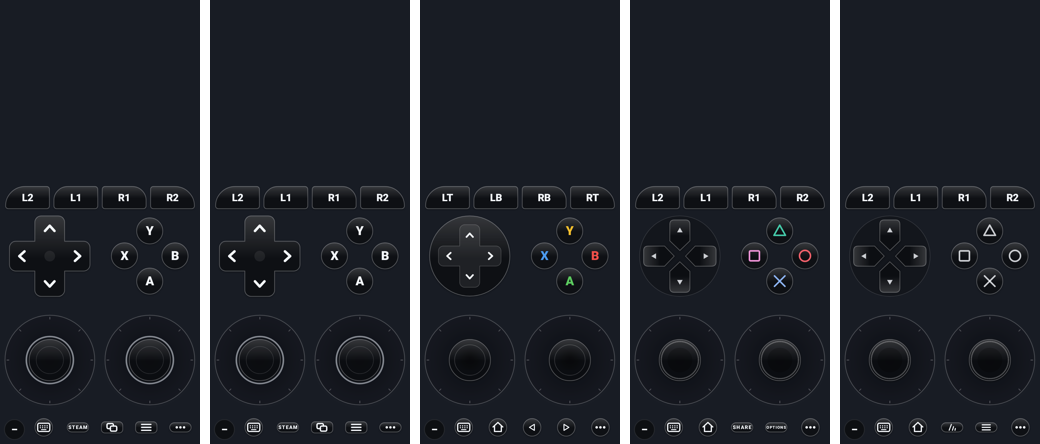
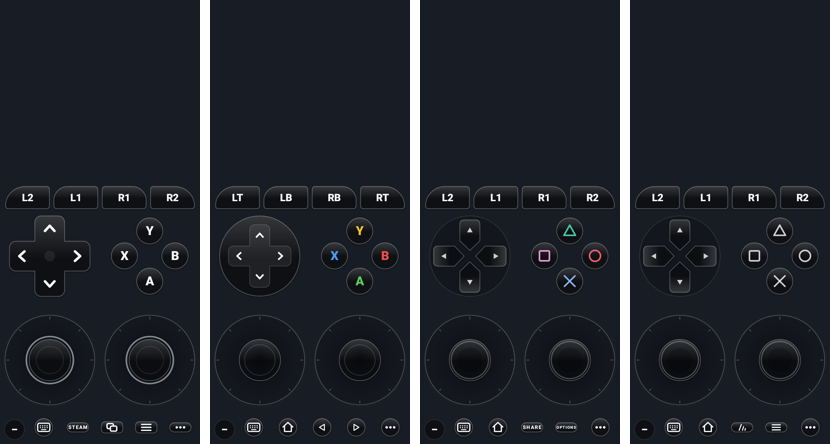
docs(release): 0.7.11 controller kits image shows four kits

diff --git a/docs/releases/0.7.11.md b/docs/releases/0.7.11.md
@@ -43,7 +43,7 @@ Since 0.7.1, **42 people** sent **461 pull requests**, and **25 of them were fir
 
 - **Controller-specific on-screen controls**: kits for the Steam Deck, Steam Controller, Xbox 360, DualShock 4 and DualSense, restyled after the real pads. The editor restores deleted controls, moves and resizes the D-pad as one control and allows sizes above 100%. Layouts keep separate portrait and landscape edits, and the floating overlays get switches for rear buttons and trackpads. (@xXJSONDeruloXx, @maxjivi05, [#2966](https://github.com/Droid-Deck/DroidDeck/pull/2966), [#2988](https://github.com/Droid-Deck/DroidDeck/pull/2988), [#2996](https://github.com/Droid-Deck/DroidDeck/pull/2996), [#3013](https://github.com/Droid-Deck/DroidDeck/pull/3013), [#3019](https://github.com/Droid-Deck/DroidDeck/pull/3019))
 
-<p align="center"><img src="media/0.7.11/controller-kits.png" width="70%" alt="The portrait on-screen controls for each kit: Steam Deck, Steam Controller, Xbox 360, DualShock 4 and DualSense, each with its shoulder buttons, D-pad, face buttons, sticks and a bottom row of menu buttons"></p>
+<p align="center"><img src="media/0.7.11/controller-kits.png" width="60%" alt="The portrait on-screen controls for four of the kits: Steam, Xbox 360, DualShock 4 and DualSense, each with its shoulder buttons, D-pad, face buttons, sticks and a bottom row of menu buttons"></p>
 
 <p align="center"><img src="media/0.7.11/steam-deck-buttons.jpg" width="50%" alt="Steam’s game mode with the restyled Steam Deck on-screen controls: shoulder buttons, a D-pad, A B X Y, rear buttons, trackpads, sticks and the Steam, keyboard and menu buttons along the bottom"></p>
 
